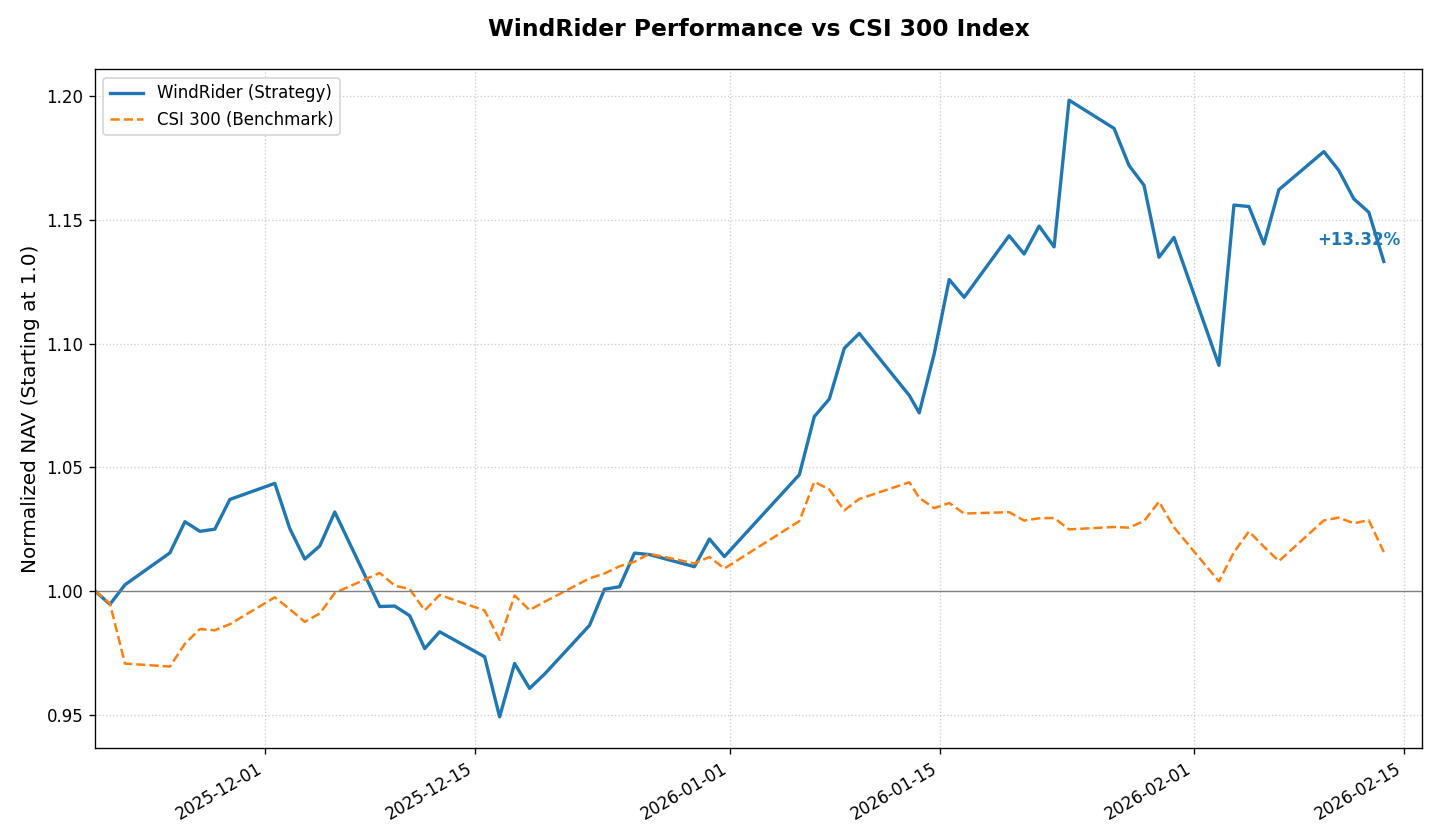
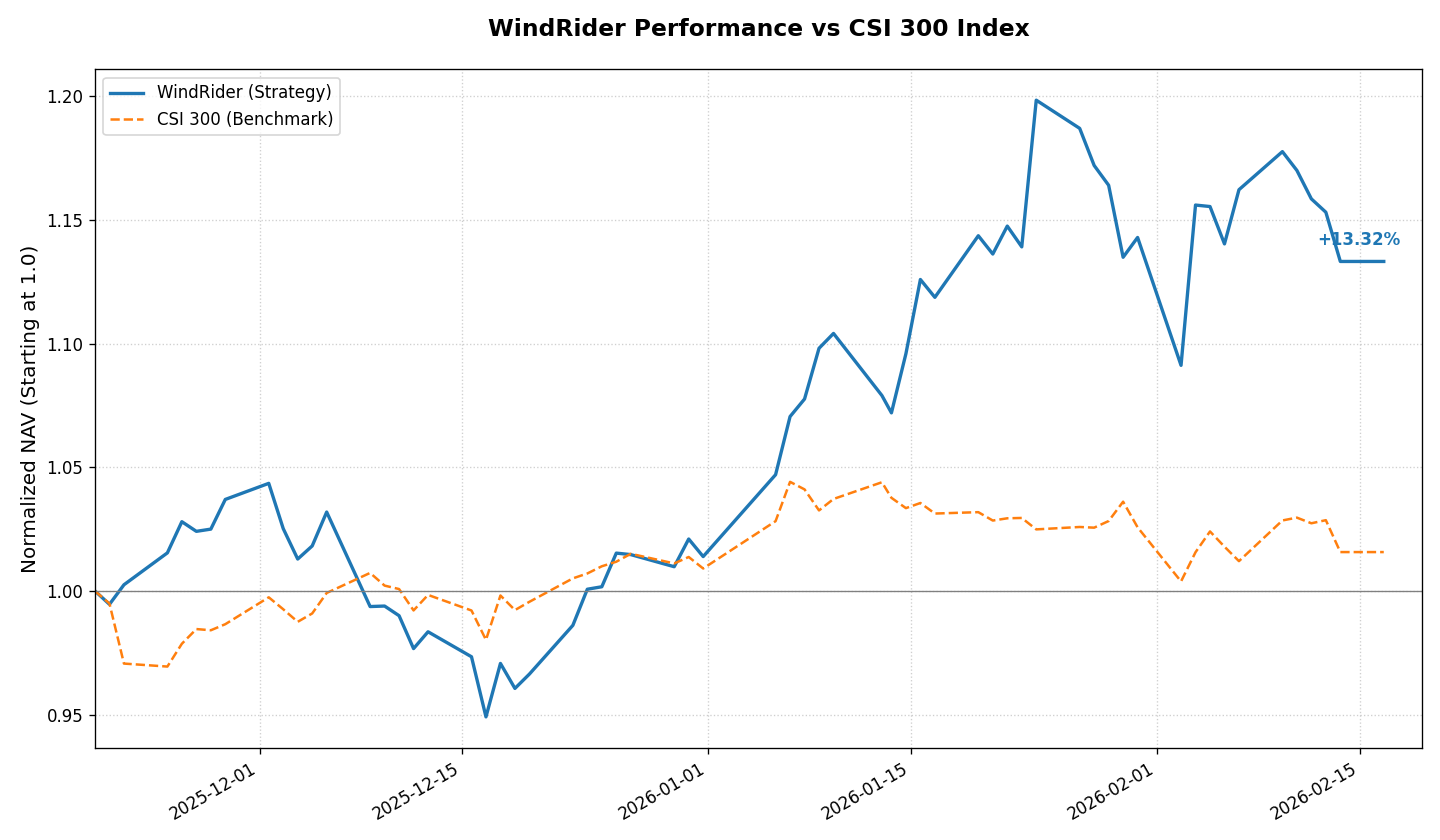
Updated Hugo site content

diff --git a/content/investment/position.md b/content/investment/position.md
@@ -1,8 +1,8 @@
 +++
 title = "持仓 Position"
 summary = "主动管理型股票组合。对标沪深300指数，采用基本面选股策略。"
-date = 2026-02-13T15:10:04+08:00
-lastmod = 2026-02-13T15:10:04+08:00
+date = 2026-02-16T15:10:05+08:00
+lastmod = 2026-02-16T15:10:05+08:00
 draft = false
 description = "WindRider Stock Portfolio"
 +++
@@ -12,24 +12,24 @@ description = "WindRider Stock Portfolio"
 
 ### 风舵股票组合 &nbsp;&nbsp;<span style="color: #E63946; font-weight: bold;">/</span><span style="color: #F1A73E; font-weight: bold;">/</span><span style="color: #000091; font-weight: bold;">/</span>&nbsp;&nbsp; 每日持仓
 WindRider Equity Portfolio <br>
-净值简报 <small>(截至: 2026-02-13)</small>
+净值简报 <small>(截至: 2026-02-16)</small>
 
 |  |  |
 | :--- | :--- |
 | **指数代码：** | WDR.EQ |
 | **成立日期：** | 2025-11-19 |
 | **最新净值：** | 1.1332 |
-| **今日涨跌：** | -1.73% |
+| **今日涨跌：** | +0.00% |
 
 ===========================
 
 | 核心表现 | |
 | :--- | :--- |
 | **累计收益：** | +13.32% |
-| **年化收益：** | +70.01% |
+| **年化收益：** | +67.00% |
 | **最大回撤：** | -9.05% |
 | **基准点位：** | 4660.41 (CSI300) |
-| **策略状态：** | 已运行 87 天 |
+| **策略状态：** | 已运行 90 天 |
 
 ### 持仓明细
 | 股票名称 | 成本价 | 现价 | 盈亏 | 占比 |
